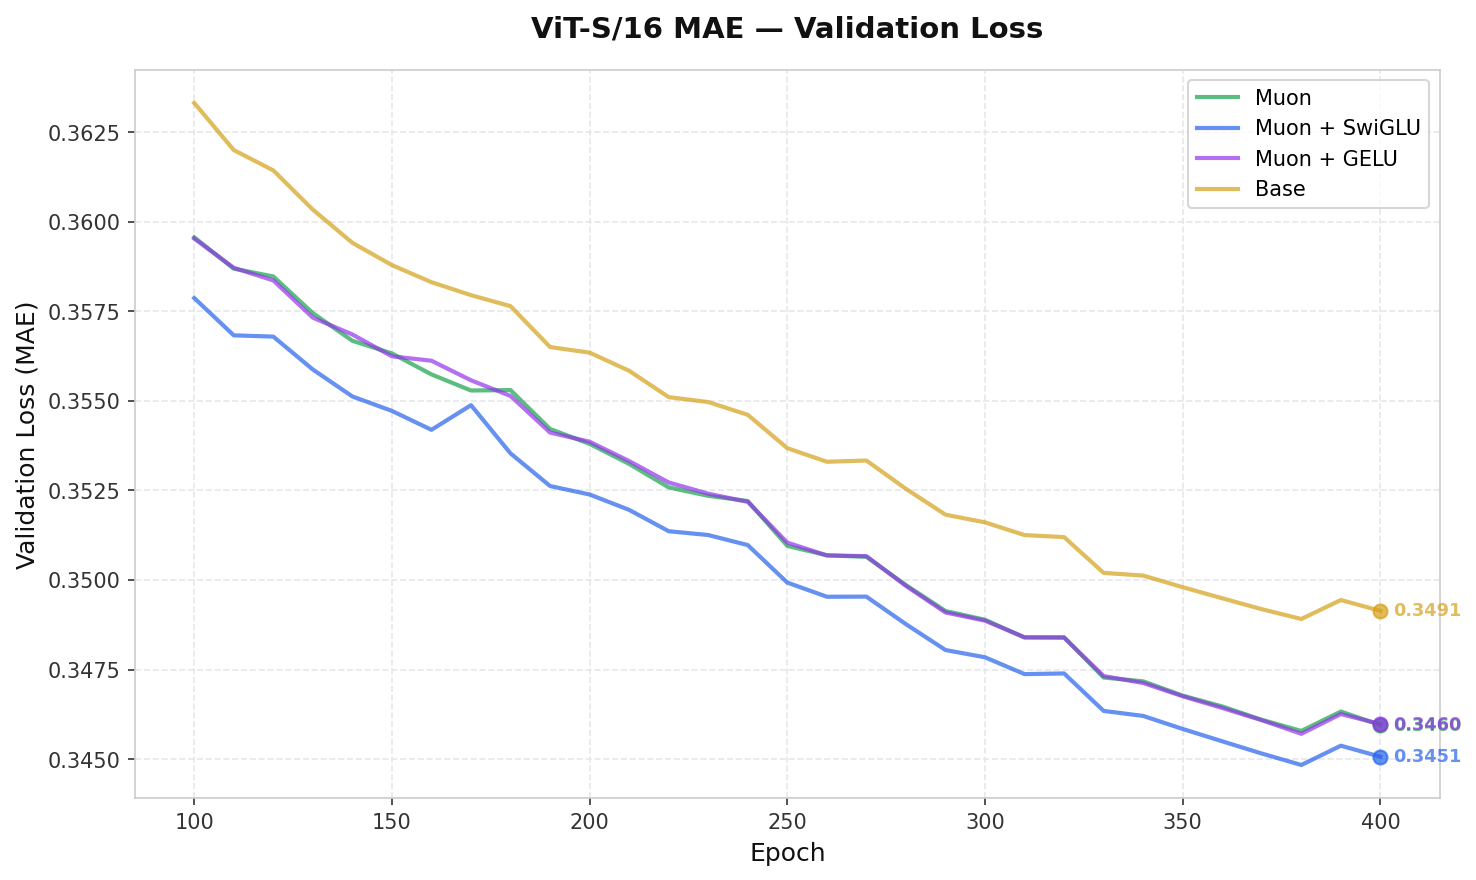
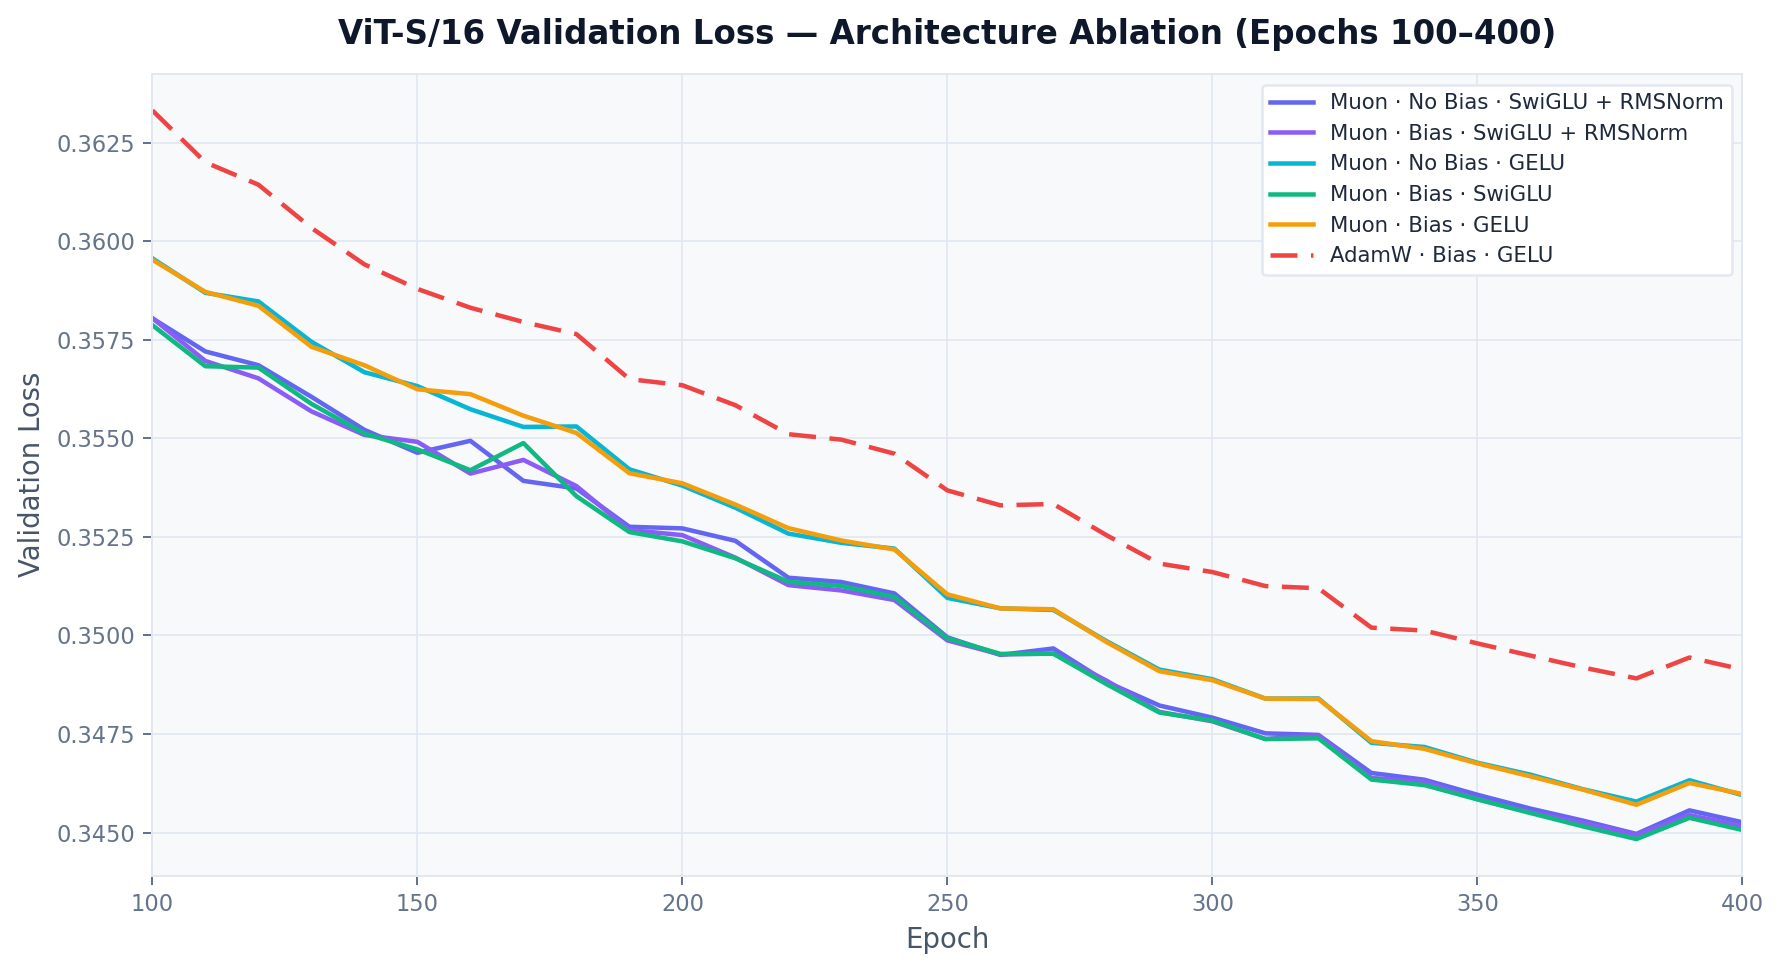
added new results for vit blog post

diff --git a/src/data/blog/evaluating-modern-llm-optimizations-on-vit.md b/src/data/blog/evaluating-modern-llm-optimizations-on-vit.md
@@ -73,6 +73,7 @@ $$
 
 ## Results
 
+### Pretraining
 ![Val losses](public/figures/val_loss.png)
 
 $$
@@ -81,8 +82,10 @@ $$
 \textbf{Model} & \textbf{Best Val Loss} \\
 \hline
 \text{AdamW, bias, GELU} & 0.34891 \\
-\text{Muon, bias, GELU} & 0.34571 \\
 \text{Muon, no bias, GELU} & 0.34579 \\
+\text{Muon, bias, GELU} & 0.34571 \\
+\text{Muon, no bias, SwiGLU + RMSNorm} & 0.34497 \\
+\text{Muon, bias, SwiGLU + RMSNorm} & 0.34494 \\
 \text{Muon, bias, SwiGLU} & \mathbf{0.34484} \\
 \hline
 \end{array}
@@ -90,22 +93,43 @@ $$
 
 Interpreting the results, the largest change came from moving from AdamW to Muon for the 2D weight matrices[^1].
 Surprisingly, challenging a lot of history in machine learning, removing the bias has very little effect vs the Muon baseline.
-My theory for why removing biases from all layers didn't hurt performance is because of the learned shift in LayerNorm. TODO: elaborate when RMSNorm experiments are done.
+Initially, my theory for why removing biases did not affect model performance was because of LayerNorm, having a shift parameter.
+To test this, I ran RMSNorm + SwiGLU with and without biases. As you can see, it had once again, almost no effect.
+At this point, I'm quite confused about these results personally. My new theory is with how deep these models are along
+with activation functions, there is simply no need for explicit shifts in linear layers.
 
 Another note, which to some isn't surprising, is replacing GELU with a SwiGLU style FFN with equivalent parameters (scale the hidden dim by $2/3$) further improved performance of the model.
 
-![Train Losses](public/figures/train_loss_early.png)
+![Train Losses](public/figures/train_loss.png)
 
-Looking at the train losses where I logged more data, you can see that AdamW actually did start off better, but that effect only lasted for a few epochs, after which, AdamW never was better than Muon.
-
-My theory on this is that Muon has no bias correction like AdamW with its
+Notably, AdamW  initially had faster convergence than Muon though was quicky overtaken and Muon never looked back.
+My theory on this is that Muon has no bias correction like AdamW:
 $$
 \begin{align*}
 \hat{m}_t &\leftarrow m_t/(1-B_1^t) \\
-\hat{v}_t &\leftarrow v_t/(1-B_2^t)
+\hat{v}_t &\leftarrow v_t/(1-B_2^t).
 \end{align*}
 $$
 Muon initializes its momentum with $M_t = 0, t = 0$, so early on the momentum is weighted towards a zero matrix. 
+
+### Attentive Probe
+
+A grid sweep with parameters weight decays (5e-4, 1e-3, 5e-2) peak learning rates (1e-5, 2e-5, 5e-5, 1e-4, 2e-4, 5e-4, 1e-3, 2e-3, 5e-3, 1e-2)
+using 1 epoch of linear warmup with cosine annealing for another 9 epochs. I chose the best model for this, being
+the SwiGLU + LayerNorm model with biases trained with the Muon optimizer. 
+
+$$
+\begin{array}{lc}
+\hline
+\textbf{Optimizer} & \textbf{ImageNet-1k Top-1} \\
+\hline
+\text{AdamW} & 0.560 \\
+\text{Muon} & \mathbf{0.567} \\
+\hline
+\end{array}
+$$
+
+Once again, Muon outperforms AdamW, even over a shorting training.
 
 [^1]: Muon relies on orthogonalization via Newton-Schulz iterations, which cannot be performed on 1D vectors. As a result, it is only applied to 2D weight matrices, while embeddings, biases, and other 1D parameters are updated with AdamW.
 
